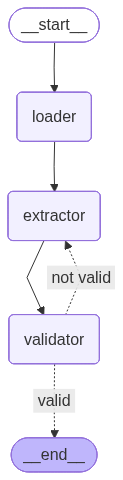
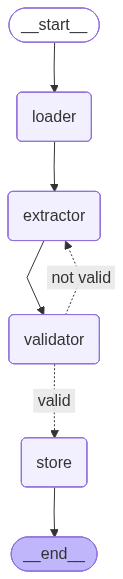
implement insert data node

Changed region(s): [[0.0488, 0.0, 0.9024, 1.0]]

diff --git a/graph/graph.py b/graph/graph.py
@@ -1,10 +1,14 @@
 from langgraph.graph import StateGraph, START, END
+from dotenv import load_dotenv
 
-from graph.conts import LOADER, EXTRACTOR, VALIDATOR
+from graph.conts import LOADER, EXTRACTOR, VALIDATOR, STORE
 from graph.state import GraphState
 from graph.nodes.loader import load_data
 from graph.nodes.extractor import extraction
 from graph.nodes.validator import validation
+from graph.nodes.store import insert_data
+
+load_dotenv()
 
 def should_continue(state: GraphState):
     if state["is_valid"]:
@@ -15,14 +19,16 @@ builder = StateGraph(state_schema=GraphState)
 builder.add_node(LOADER, load_data)
 builder.add_node(EXTRACTOR, extraction)
 builder.add_node(VALIDATOR, validation) 
+builder.add_node(STORE, insert_data)
 
 builder.add_edge(START, LOADER)
 builder.add_edge(LOADER, EXTRACTOR)
 builder.add_edge(EXTRACTOR, VALIDATOR)
 builder.add_conditional_edges(VALIDATOR, should_continue, {
-    "valid": END,
+    "valid": STORE,
     "not valid": EXTRACTOR
 })
+builder.add_edge(STORE, END)
 
 graph = builder.compile()
 graph.get_graph().draw_mermaid_png(output_file_path="graph.png")

diff --git a/graph/nodes/store.py b/graph/nodes/store.py
@@ -14,6 +14,7 @@ PORT = os.getenv("MYSQL_PORT")
 DB_NAME = os.getenv("MYSQL_DATABASE")
 
 def insert_data(state: GraphState):
+    print("Inserting data into database...")
     invoice = state["invoice"]
 
     db = SQLDatabase.from_uri(f"mysql+pymysql://{USER}:{PASSWORD}@127.0.0.1:{PORT}/{DB_NAME}?charset=utf8mb4")
@@ -106,5 +107,5 @@ def insert_data(state: GraphState):
 
     except Exception as e:
         print(f"Error inserting data: {e}")
-        return False
-    return True
+        return {"success": False}
+    return {"success": True}

diff --git a/main.py b/main.py
@@ -1,4 +1,8 @@
+from dotenv import load_dotenv
+
 from graph.graph import graph
+
+load_dotenv()
 
 def main():
     print("Hello from invoice-graph-agent!")

diff --git a/graph/state.py b/graph/state.py
@@ -9,3 +9,4 @@ class GraphState(TypedDict):
     document: Document
     is_valid: bool
     summarize: Summarize
+    sucess: bool

diff --git a/graph/conts.py b/graph/conts.py
@@ -1,3 +1,4 @@
 LOADER = "loader"
 EXTRACTOR = "extractor"
 VALIDATOR = "validator"
+STORE = "store"
